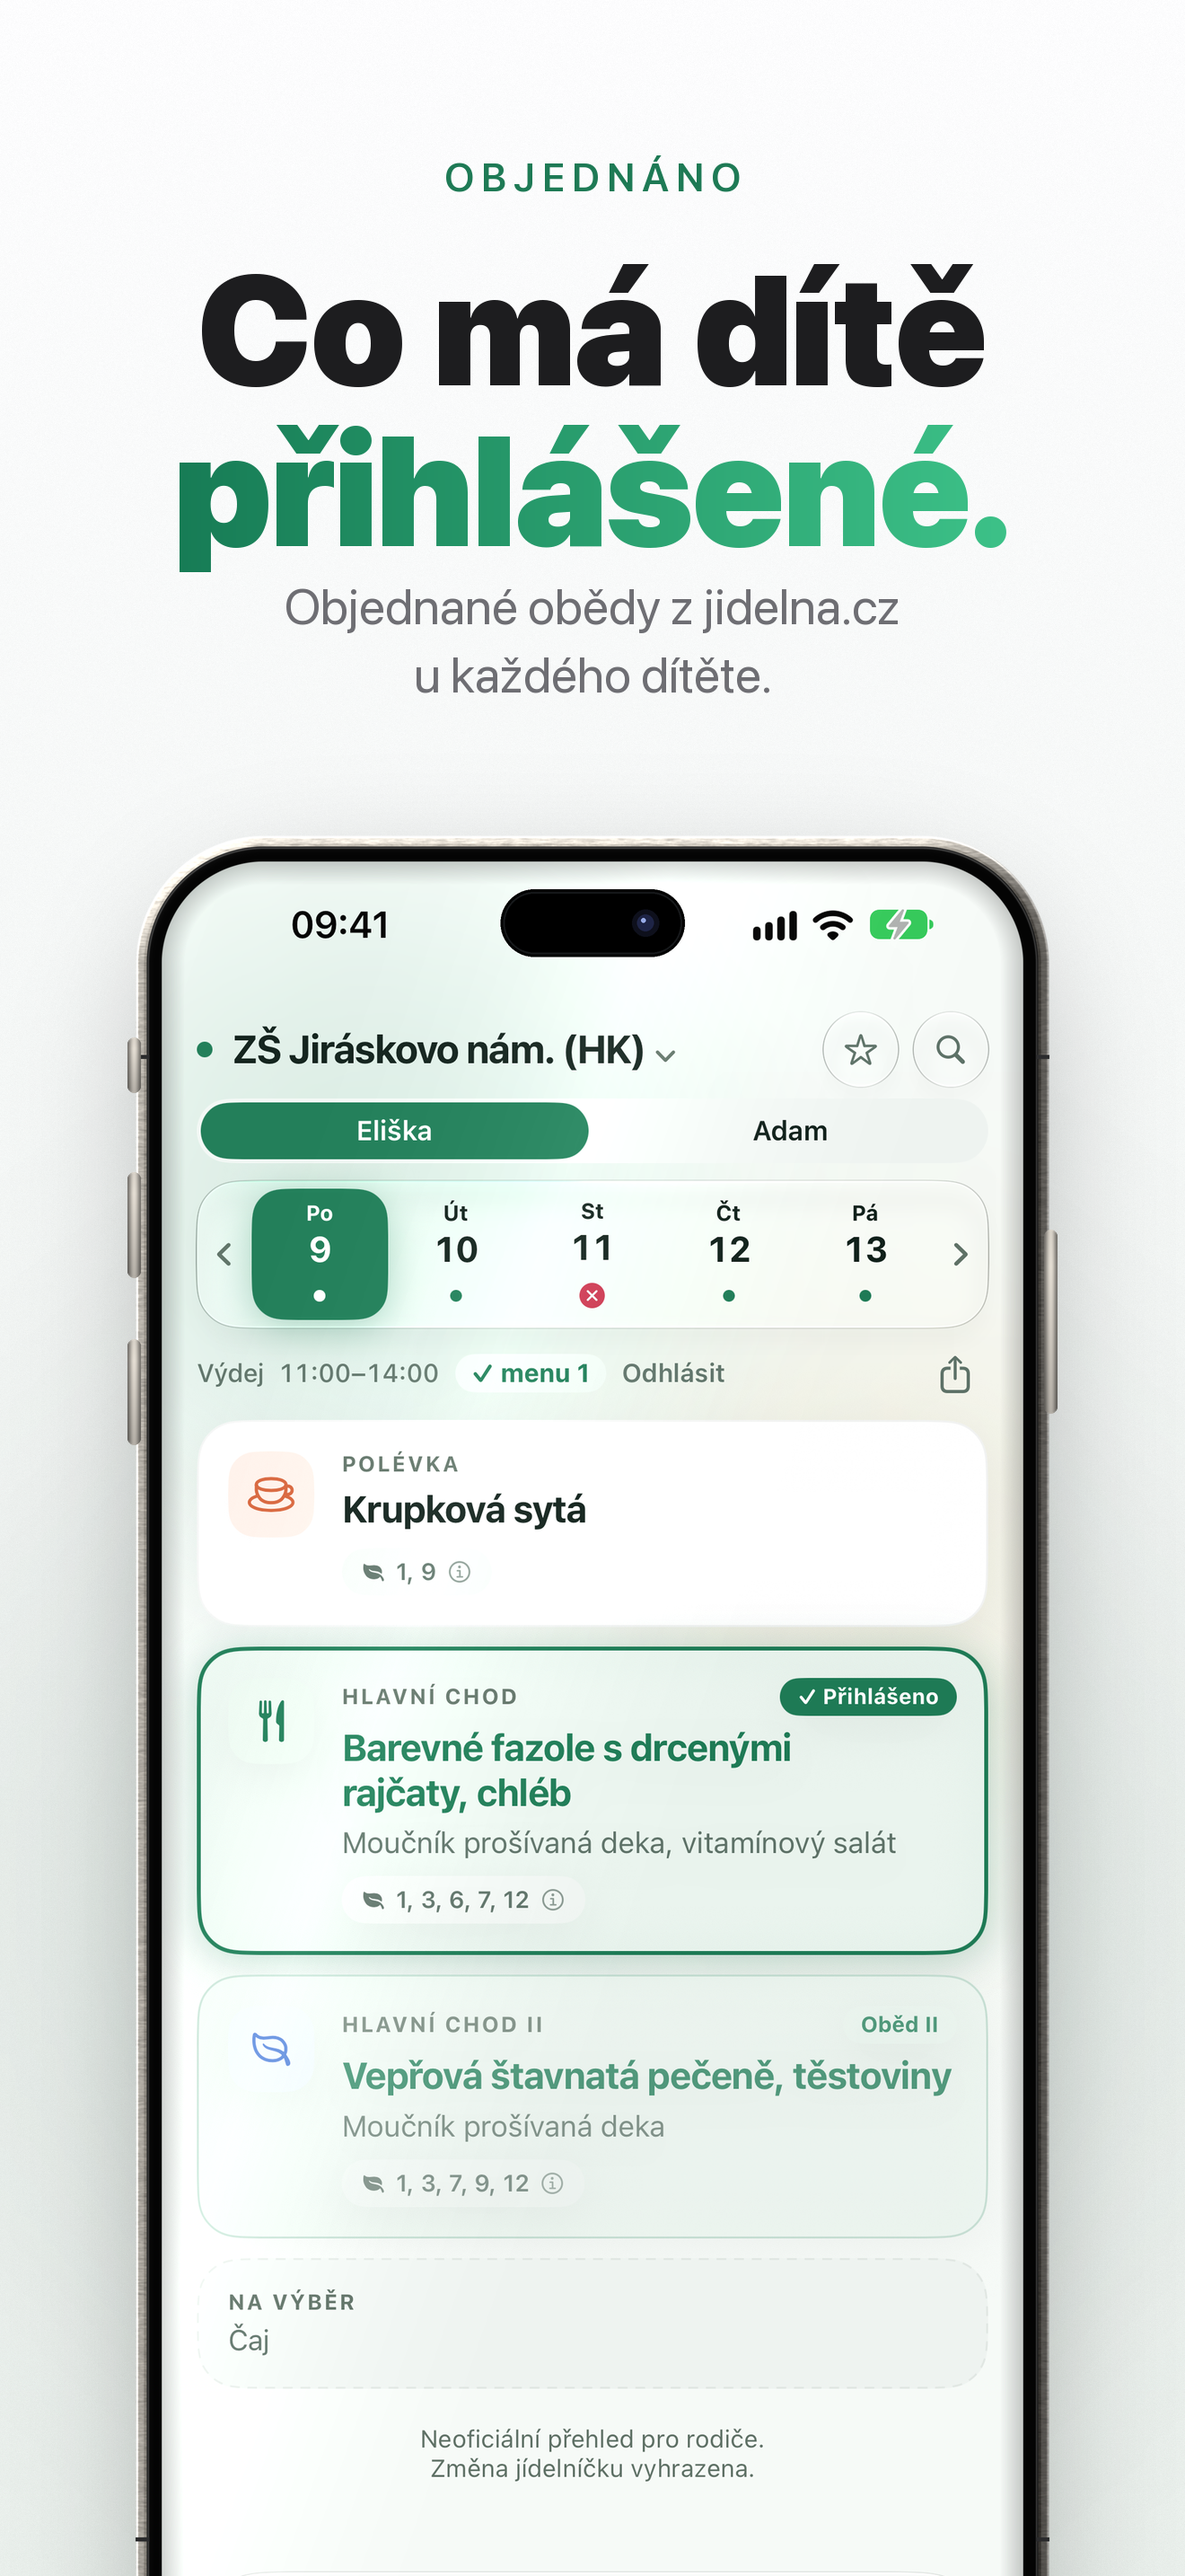
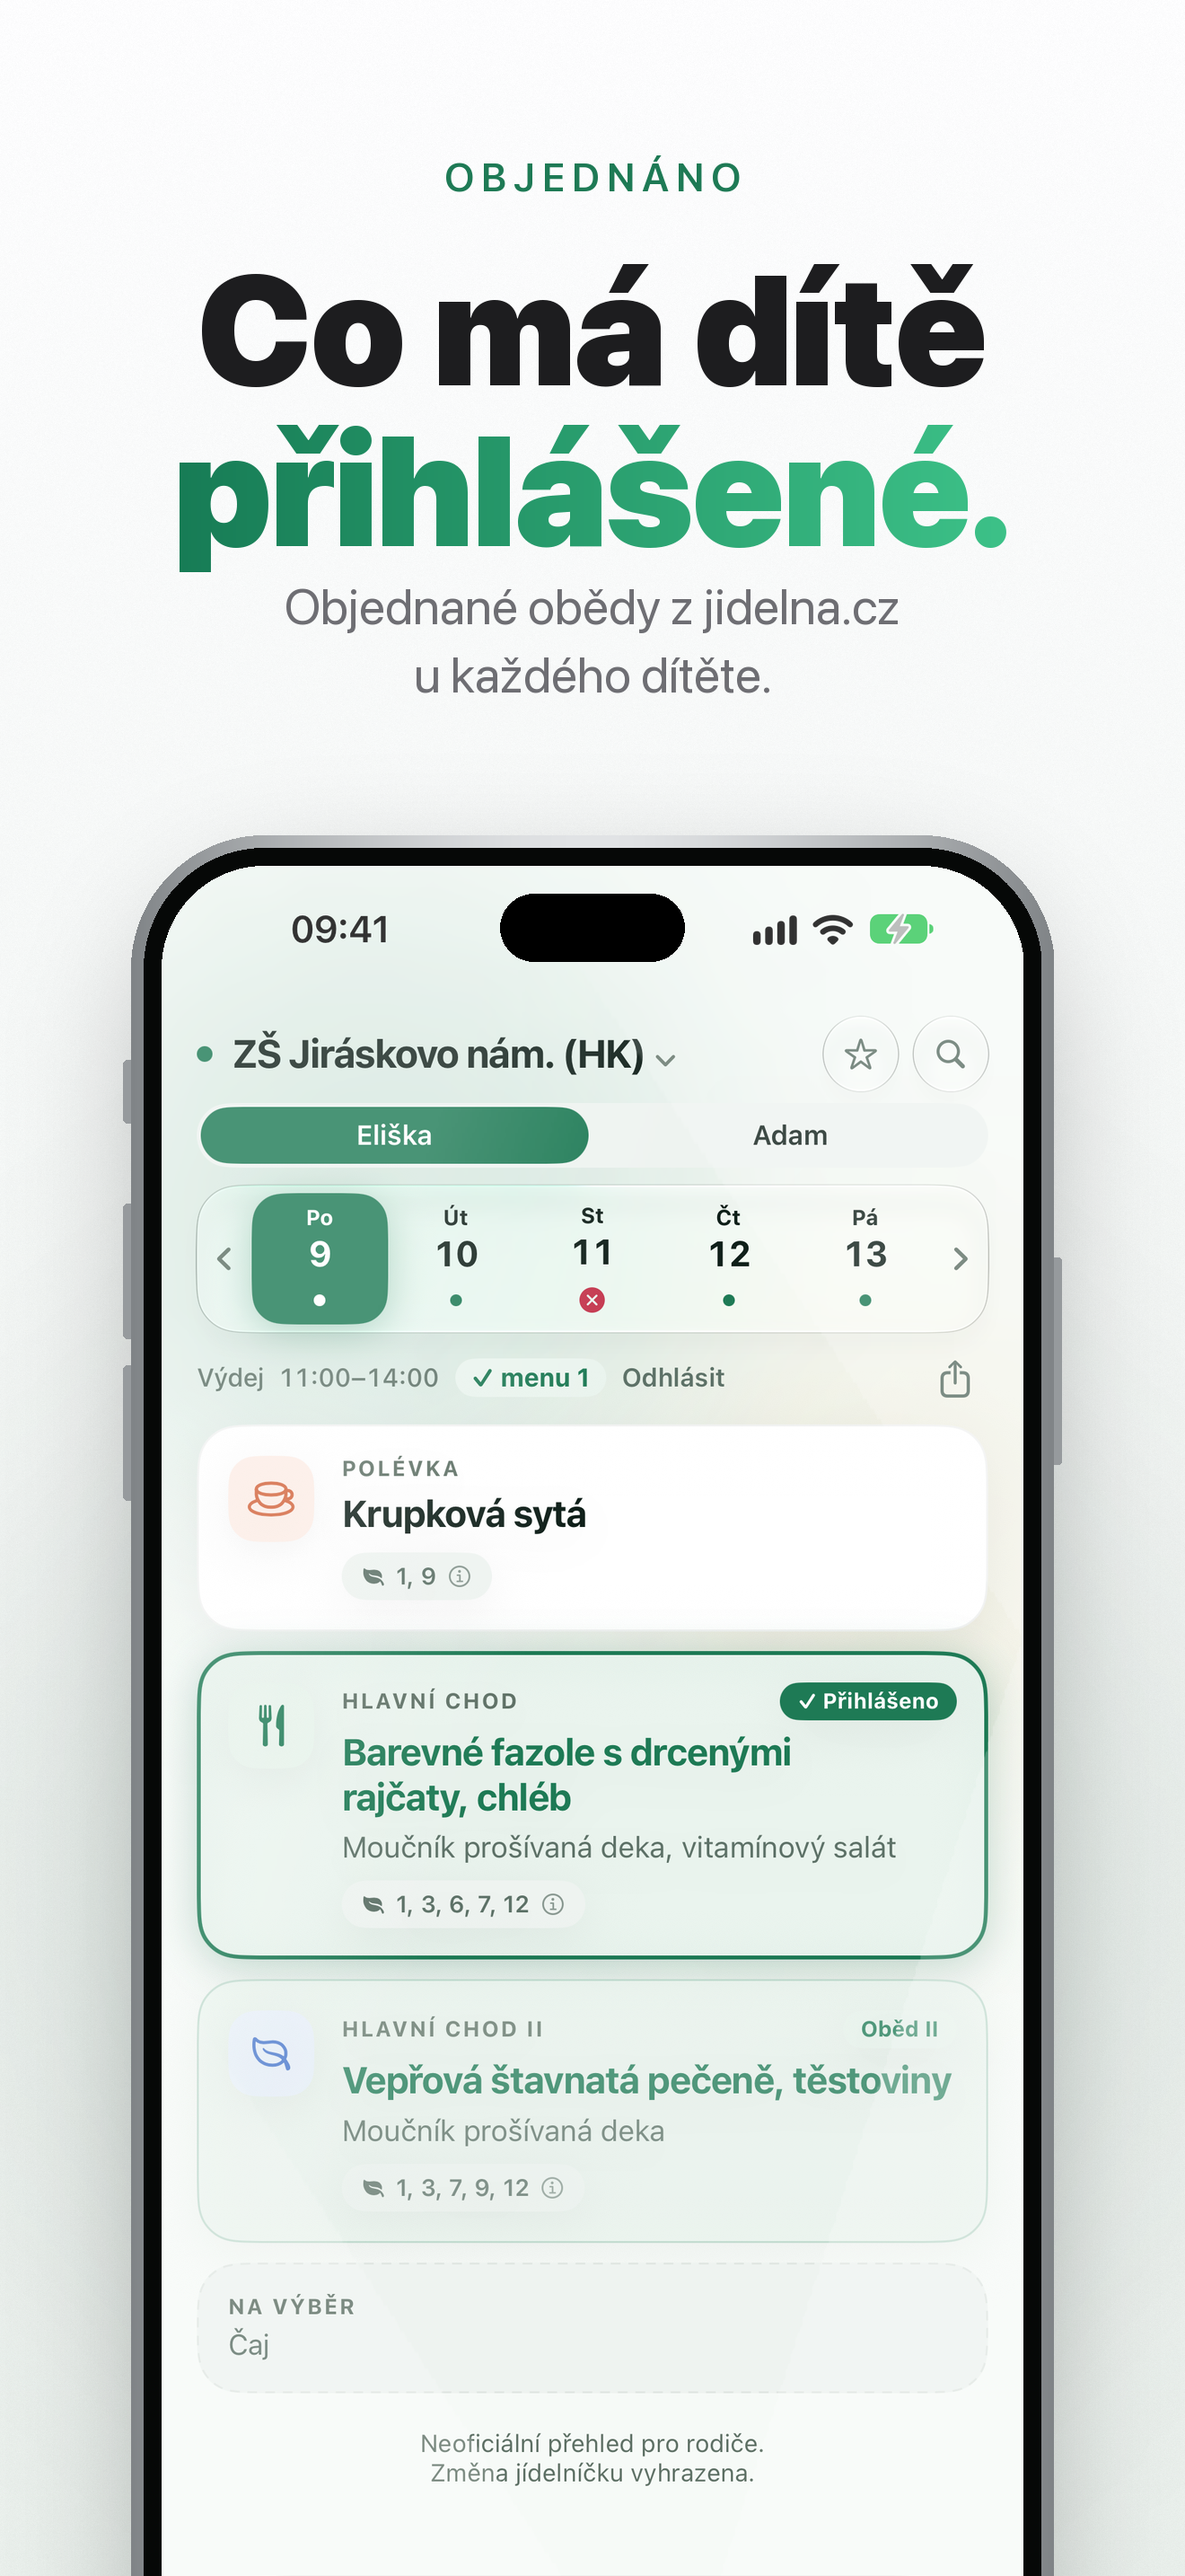
Minimalistické sady: zpět původní (jednodušší) rám iPhonu

diff --git a/tools/make-screenshots-minimal.py b/tools/make-screenshots-minimal.py
@@ -143,7 +143,7 @@ def slide(st, jmeno, eyebrow, nadpis, podnadpis, tmave):
         y += 76
 
     shot = bar.rozmazat(Image.open(RAW / f"{jmeno}.png").convert("RGB"), bar.ROZMAZAT.get(jmeno, []))
-    tel = bar.iphone(shot, 960)
+    tel = bar.iphone_stary(shot, 960)      # původní jednodušší rám; fotorealistický je bar.iphone
     x, y0 = (W - tel.size[0]) // 2, (1010 if jmeno == "1-den" else 930)
     stin = Image.new("RGBA", pl.size, (0, 0, 0, 0))
     ImageDraw.Draw(stin).rounded_rectangle((x + 30, y0 + 70, x + tel.size[0] - 30, y0 + tel.size[1]), 160, fill=st["stin"])
